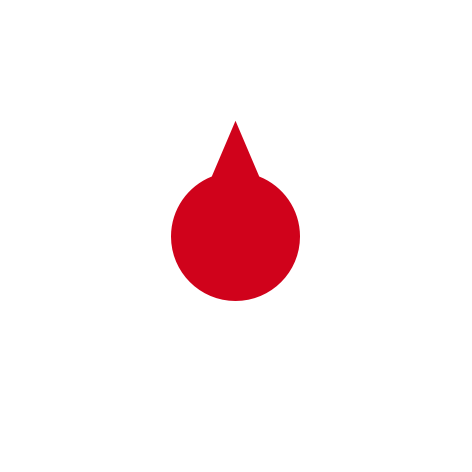
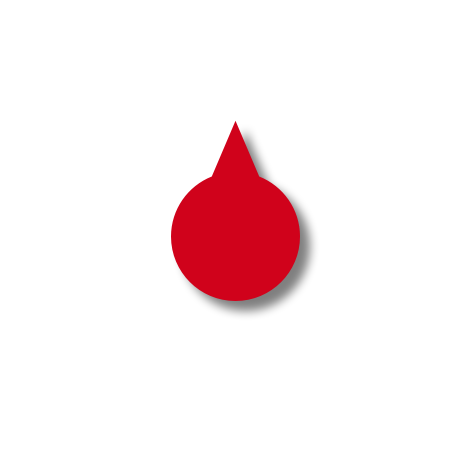
。。。

Changed region(s): [[0.3856, 0.3856, 0.6822, 0.6822], [0.5042, 0.2669, 0.5932, 0.3856]]

diff --git a/public/js/zp.js b/public/js/zp.js
@@ -1,16 +1,16 @@
 var zp = {
     isring: false,//正在不旋转
-    count: 300,//可以抽奖的次数
+    count: 3,//可以抽奖的次数
     num: 0,
     r: 0,//单个角度
     this_index: 1,//当前指向的 item 序列
     items: [
-        {index: 1, name: "1",info:"",state:0, rand: 0},
-        {index: 2, name: "2",info:"",state:1, rand: 0},
-        {index: 3, name: "3",info:"",state:1, rand: 0},
-        {index: 4, name: "4",info:"",state:1, rand: 0},
-        {index: 5, name: "5",info:"",state:1, rand: 0},
-        {index: 6, name: "6",info:"",state:1, rand: 0},
+        {index: 1, name: "1",info:"",state:0, rand: 1},
+        {index: 2, name: "2",info:"",state:1, rand: 1},
+        {index: 3, name: "3",info:"",state:1, rand: 10},
+        {index: 4, name: "4",info:"",state:1, rand: 21},
+        {index: 5, name: "5",info:"",state:1, rand: 3},
+        {index: 6, name: "6",info:"",state:1, rand: 32},
         {index: 7, name: "7",info:"",state:1, rand: 1},
         {index: 8, name: "8",info:"",state:1, rand: 1}
     ],
@@ -68,13 +68,13 @@ var zp = {
 
                     }
                     console.log("偏转角度：" + r)
-                    zp.num += 360;
+                    zp.num += 360*3;
                     zp.num += r;
 
                     zp.e.style.webkitTransform = 'rotate(' + zp.num + 'deg)';
                     zp.isring = true;
                 } else {
-                    alert("抽奖机会已经耗尽")
+                    alert("抽奖机会已经耗尽");
                 }
             }
 

diff --git a/public/stylesheets/zp.css b/public/stylesheets/zp.css
@@ -4,8 +4,8 @@
   right: 0;
   top: 0;
   bottom: 0;
-  width: 500px;
-  height: 500px;
+  width: 300px;
+  height: 300px;
   margin: auto;
   background: url("/img/zp/zhuanpan.png");
   background-size: 100%;
@@ -16,15 +16,15 @@
   right: 0;
   top: 0;
   bottom: 0;
-  width: 500px;
-  height: 500px;
+  width: 300px;
+  height: 300px;
   margin: auto;
   background: url("/img/zp/zhuanpan_btn.png");
   background-size: 100%;
 }
 .btnbg .btn{
-  width: 120px;
-  height: 120px;
+  width: 60px;
+  height: 60px;
   border-radius: 50%;
   margin: auto;
   position: absolute;
@@ -33,4 +33,5 @@
   top: 0;
   bottom: 0;
   cursor: pointer;
+  box-shadow: #444444 10px 10px 20px;
 }
